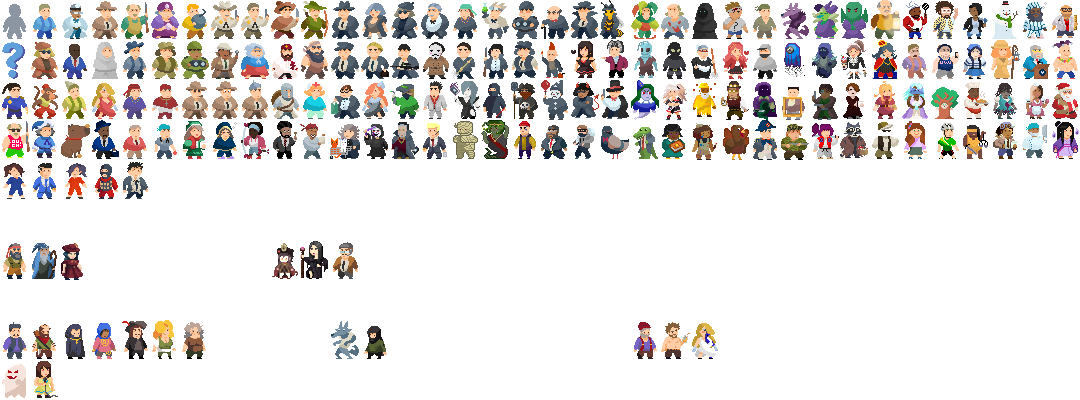
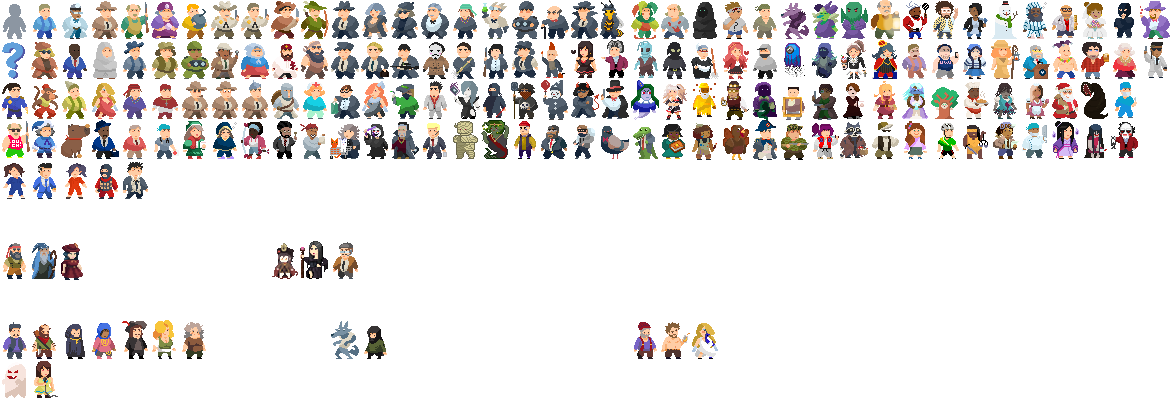
More Updates to the old roles.png, including 10 new ones (#405)
Credit to azula/@infiniteseahorse for Bride icon;
godswife for Ventriloquist;
puppy/felix for Accursed doll;
maxie for Leech;
gambino for Drunk.
all others designed by myself

Also reassigned currently-in-use icons to Celebrity and President.

diff --git a/react_main/src/css/roles.css b/react_main/src/css/roles.css
@@ -200,7 +200,7 @@
 }
 
 .role-Mafia-Drunk {
-  background-position: -90px -80px;
+  background-position: -1080px -40px;
 }
 
 .role-Mafia-Warden {
@@ -240,6 +240,10 @@
 }
 
 .role-Mafia-Celebrity {
+  background-position: -90px -80px;
+}
+
+.role-Mafia-President {
   background-position: -60px -40px;
 }
 
@@ -435,6 +439,23 @@
   background-position: -690px -120px;
 }
 
+.role-Mafia-Bride {
+  background-position: -1080px -0px;
+}
+
+.role-Mafia-Mayor {
+  background-position: -1110px -40px;
+}
+
+.role-Mafia-Surgeon {
+  background-position: -1110px -80px;
+}
+
+.role-Mafia-Bodyguard {
+  background-position: -1140px -40px;
+}
+
+
 /* 
 * Mafia 
 */
@@ -587,10 +608,6 @@
   background-position: -450px -120px;
 }
 
-.role-Mafia-Medusa {
-  background-position: -480px -120px;
-}
-
 .role-Mafia-Trespasser {
   background-position: -510px -120px;
 }
@@ -621,6 +638,14 @@
 
 .role-Mafia-Interrogator {
   background-position: -630px -120px;
+}
+
+.role-Mafia-Silencer {
+  background-position: -1110px -0px;
+}
+
+.role-Mafia-Ventriloquist {
+  background-position: -1110px -120px;
 }
 
 /* 
@@ -695,6 +720,10 @@
   background-position: -720px -120px;
 }
 
+.role-Mafia-Gambler {
+  background-position: -1140px -0px;
+}
+
 /* 
 * Cult 
 */
@@ -713,6 +742,18 @@
 
 .role-Mafia-The-Thing {
   background-position: -780px -40px;
+}
+
+.role-Mafia-Medusa {
+  background-position: -480px -120px;
+}
+
+.role-Mafia-Accursed-Doll {
+  background-position: -1080px -120px;
+}
+
+.role-Mafia-Leech {
+  background-position: -1080px -80px;
 }
 
 /* 
